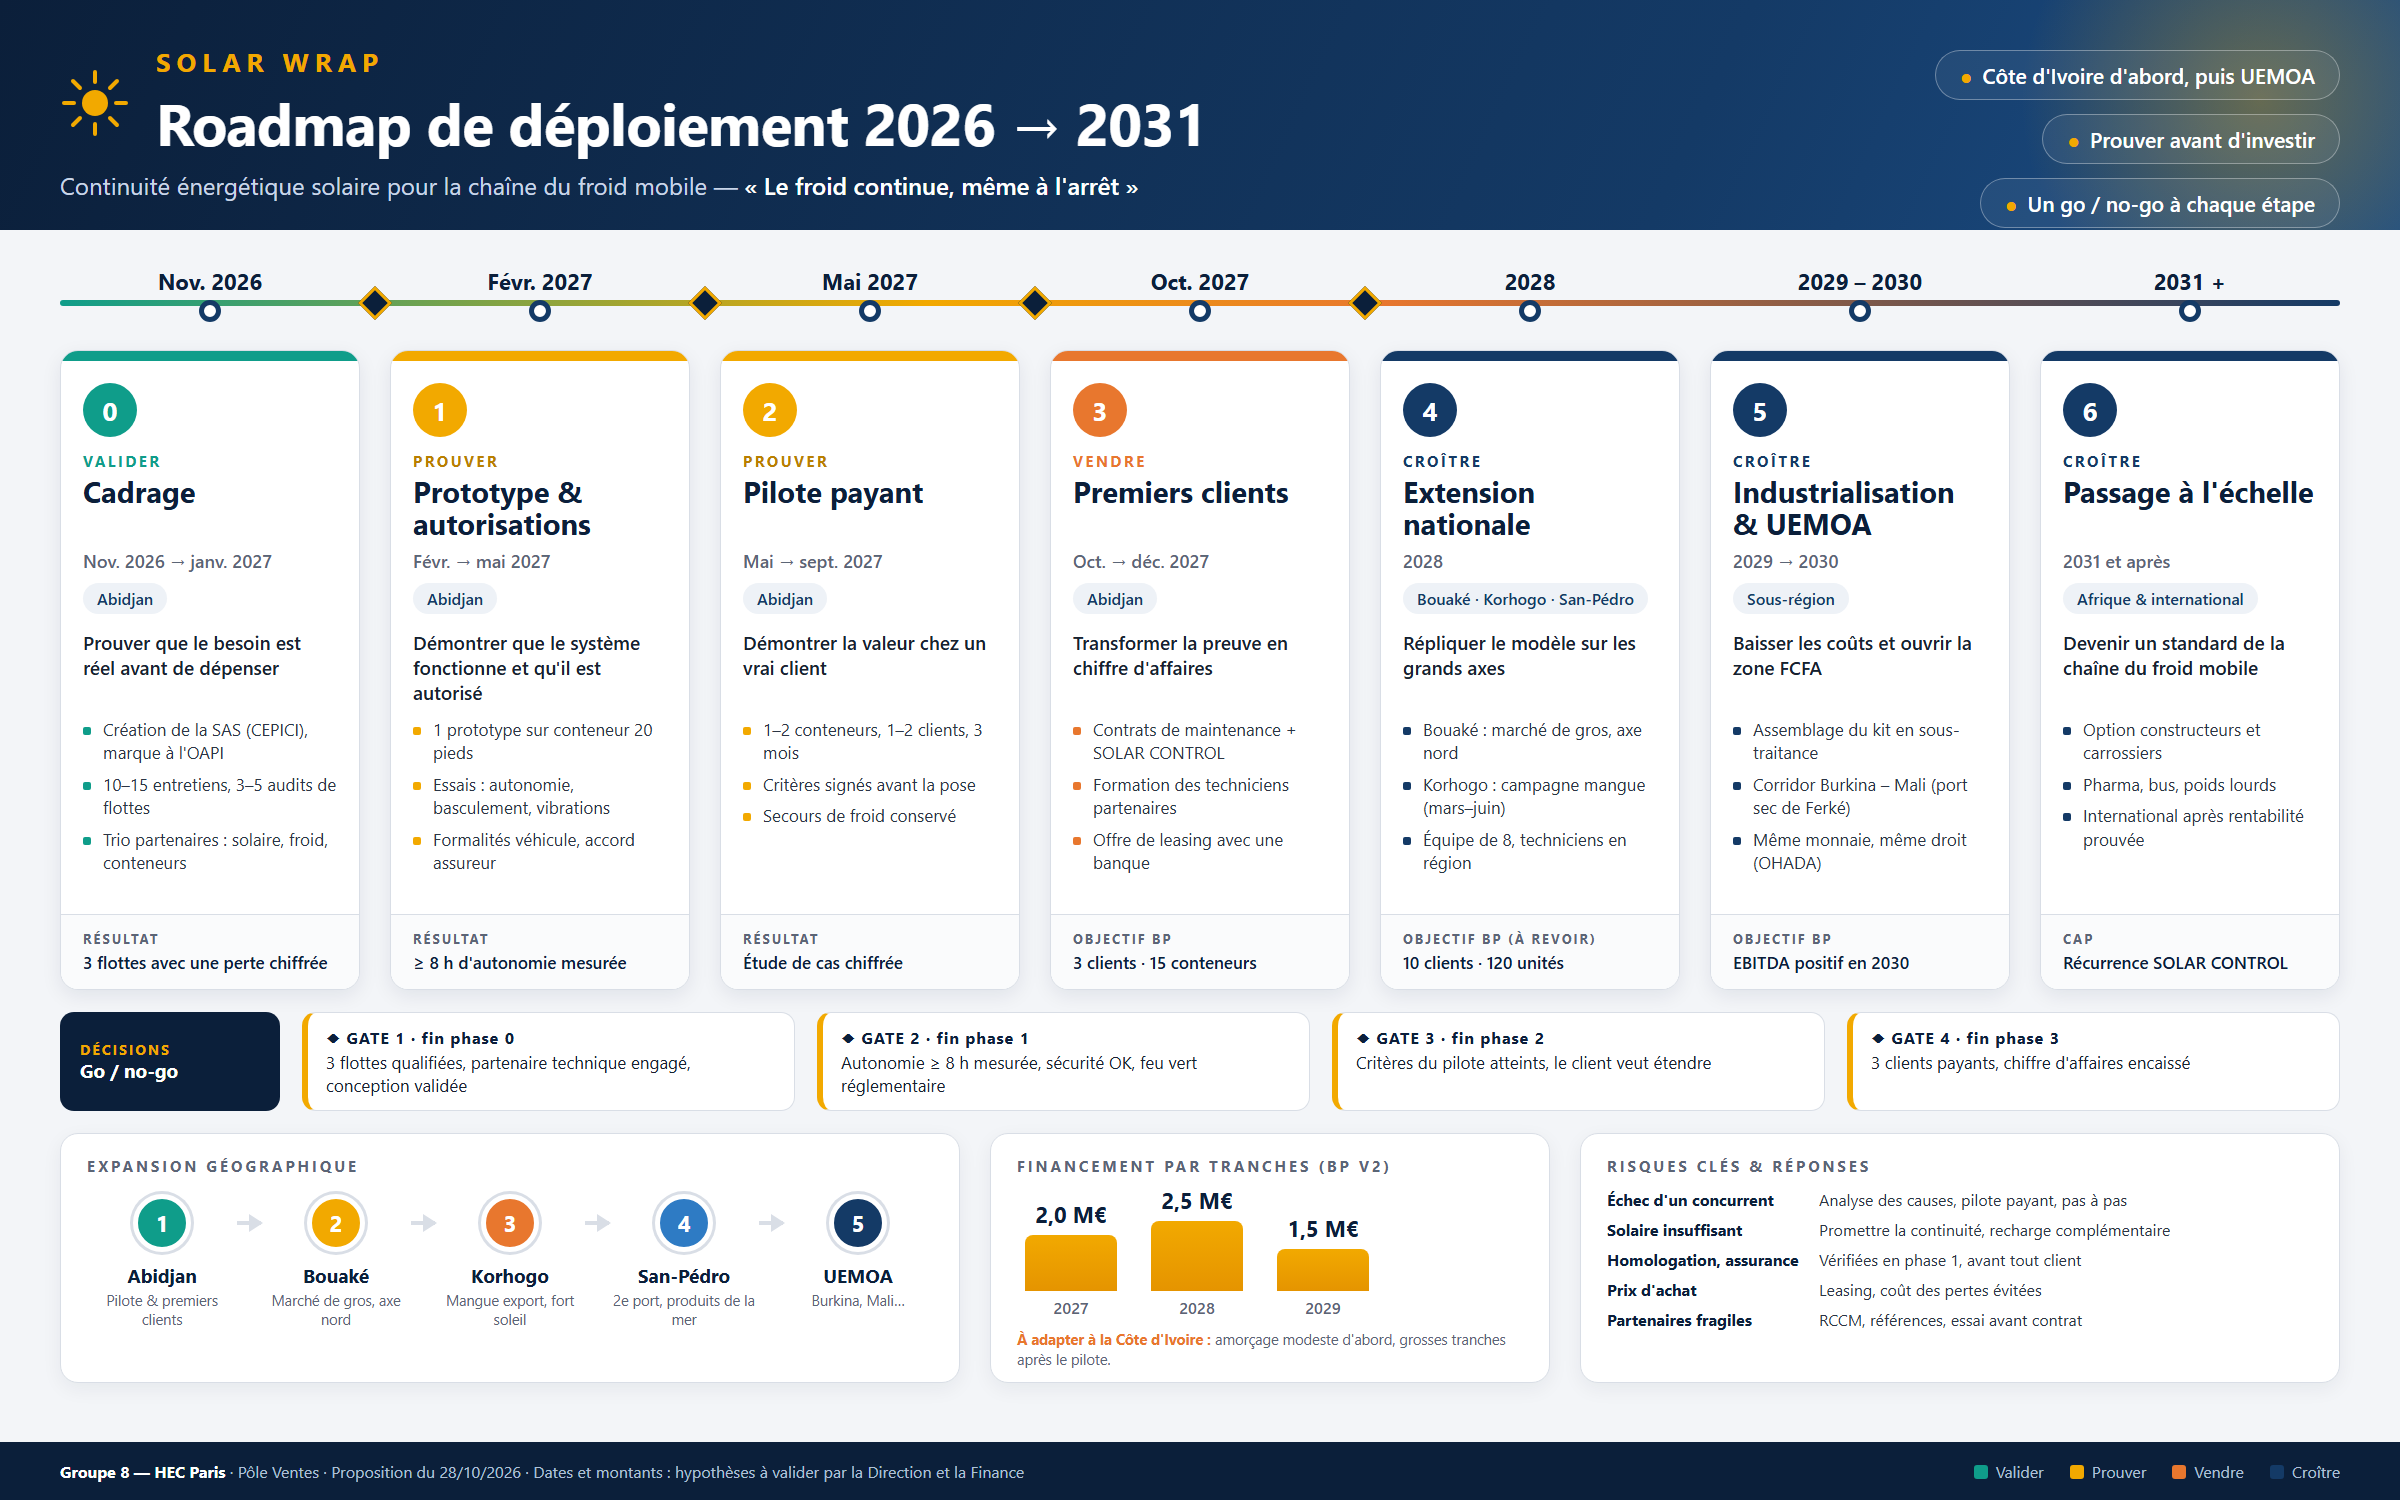
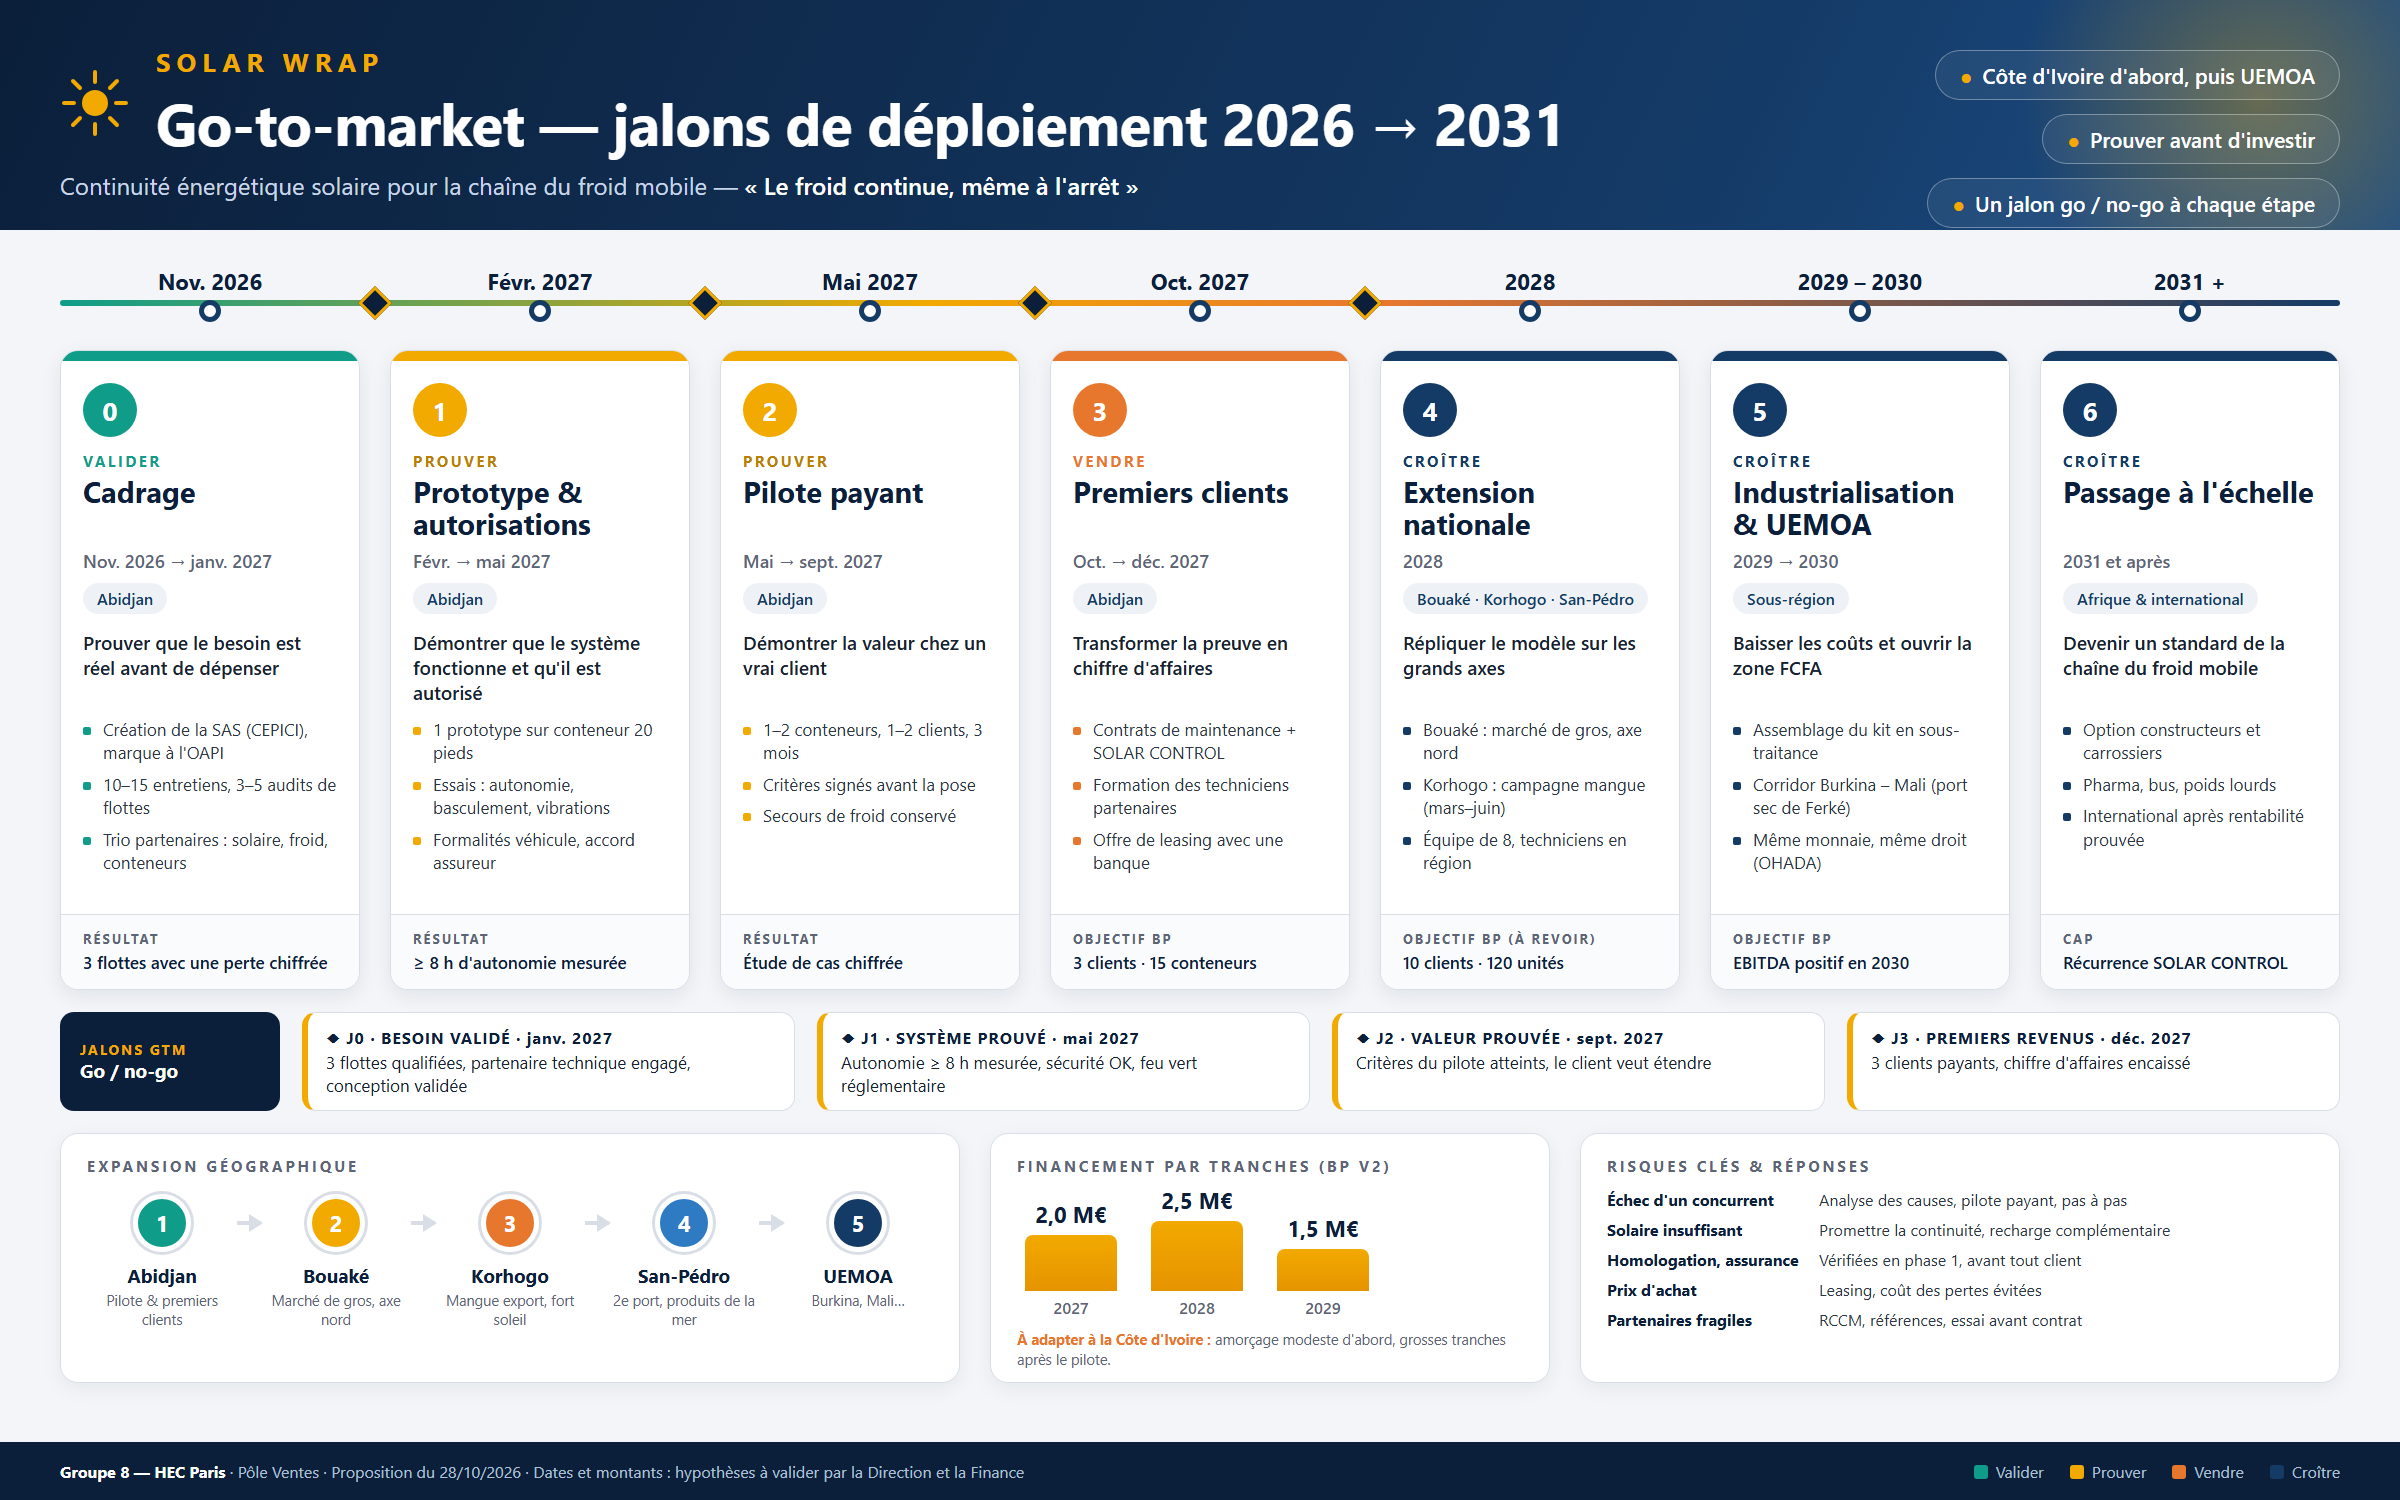
Ventes : jalons du go-to-market (plan v1.5)
- § 18 : jalons J0 à J6 du go-to-market, critères go / no-go,
  responsables et indicateurs, la roadmap servant de référence
- Infographie retitrée « Go-to-market — jalons de déploiement »
  et décisions renommées J0 à J3
- README de 4 VENTES mis à jour

diff --git a/4 VENTES/PLAN-COMMERCIAL.md b/4 VENTES/PLAN-COMMERCIAL.md
@@ -1,6 +1,6 @@
 # 📈 Plan commercial SOLAR WRAP — Pôle Ventes
 
-**Responsable : NAB** · **Version :** v1.4 — 28/10/2026 (v1.3 + cohérence avec le [Business Model Canvas](../08-livrables/BUSINESS-MODEL-CANVAS/README.md) : alerte prix, points 5 à 7 de la section 1, canaux) · **Statut :** proposition, à valider par FAOUZI (Direction)
+**Responsable : NAB** · **Version :** v1.5 — 28/10/2026 (v1.4 + jalons du go-to-market, section 18) · **Statut :** proposition, à valider par FAOUZI (Direction)
 
 > Livrable attendu (cf. [tache et livrable de chacun](../tache%20et%20livrable%20de%20chacun.md)) : **plan commercial et premiers prospects**.
 > Sources internes : [LA VISION DU CEO](../04-strategie/LA%20VISION%20DU%20CEO.MD), [étude de marché Marketing](../3%20MARKETING/SOLAR_WRAP_Etude_de_marche_synthetique_et_positionnement.md), [fiche Produit](../5%20PRODUIT/INSTALLATION%20PHOTOVOLTA%C3%8FQUE%20SUR%20CONTENEUR%20LOGISTIQUE%20FRIGORIFIQUE.md), [note Juridique / RH](../7%20JURIDIQUE%20RH/README.md), [business plan V2](../2%20FINANCE/SOLAR_WRAP_BP_V2.md), `02-banque-idees/CONTRADICTIONS ET INCOHERENCES.docx`.
@@ -235,3 +235,24 @@ Visite du conteneur et du groupe frigorifique, relevé de la consommation, du co
 **Conditions pour passer à la ville suivante :** au moins un pilote réussi et documenté à Abidjan ; un installateur partenaire capable d'intervenir dans la ville visée (ou formé sur place) ; pour Korhogo, une visite calée sur la campagne mangue.
 
 **Sources :** [Ecofin — trois marchés de gros (mai 2026)](https://www.agenceecofin.com/actualites/0605-138182-cote-d-ivoire-trois-marches-de-gros-annonces-pour-moderniser-la-filiere-vivriere) · [Marché de gros de Bouaké](https://www.pppossible.com/projet-marchedugros.php) · [PND 2026-2030 et le Nord](https://www.afrik.com/pnd-2026-2030-la-cote-d-ivoire-veut-faire-du-nord-un-corridor-agro-industriel-et-logistique) · [Filières fruitières en Côte d'Ivoire (2022)](https://www.hortifresh.org/wp-content/uploads/AnalyseFruitSectors_2022_online.pdf) · [La mangue en Côte d'Ivoire (Fruitrop)](https://www.fruitrop.com/content/download/42193/685289/version/6/file/F255+fiche+mangue+cote+ivoire+FRA.pdf) · [Catalogue de projets du CEPICI](https://cepici.ci/forum/public/backend/assets/upload/documents/1732611402_ee63aa13c1d73bc83f6a.pdf) · [Ensoleillement — Scientific African (2026)](https://doaj.org/article/12a8ff372dc7406d90b8bba12148ee5a)
+
+## 18. Jalons du go-to-market (référence : roadmap de déploiement)
+
+La [roadmap de déploiement](ROADMAP-SOLAR-WRAP.png) est la **référence des jalons du go-to-market**. Chaque phase se termine par une décision **go / no-go** : on ne passe à la phase suivante que si le critère est atteint.
+
+![Go-to-market SOLAR WRAP — jalons 2026-2031](ROADMAP-SOLAR-WRAP.png)
+
+| Jalon | Échéance cible | Critère de réussite (go / no-go) | Responsable principal | Indicateurs Ventes |
+|---|---|---|---|---|
+| **J0 — Besoin validé** | Fin janv. 2027 | 3 flottes qualifiées (§ 4) avec une perte chiffrée ; partenaire technique engagé ; conception validée | NAB · ILYES | Entretiens réalisés (10-15), audits (3-5) |
+| **J1 — Système prouvé** | Fin mai 2027 | Autonomie ≥ 8 h mesurée ; sécurité OK ; feu vert réglementaire et assureur | ILYES · MAXIME | Clients prêts à piloter |
+| **J2 — Valeur prouvée** | Fin sept. 2027 | Critères du pilote atteints ; le client veut étendre ; étude de cas chiffrée | NAB | Conventions de pilote signées (1-2) |
+| **J3 — Premiers revenus** | Fin déc. 2027 | 3 clients payants · 15 conteneurs · CA **encaissé** | NAB · LEVON | CA facturé / encaissé, taux d'abonnement |
+| **J4 — Couverture nationale** | 2028 | Clients actifs à Bouaké et Korhogo ; objectif BP 10 clients · 120 unités (à revoir) | NAB | Clients par ville, délai de signature |
+| **J5 — Rentabilité et UEMOA** | 2029-2030 | Coût unitaire en baisse ; premier client hors Côte d'Ivoire ; EBITDA positif visé en 2030 | FAOUZI · LEVON | Marge par conteneur, clients UEMOA |
+| **J6 — Passage à l'échelle** | 2031 + | Accord avec un constructeur ou carrossier ; revenus récurrents SOLAR CONTROL | FAOUZI | Part du CA récurrent |
+
+**Règles :**
+- Un jalon manqué déclenche une revue avec la Direction et la Finance : **corriger, décaler ou arrêter** — jamais passer outre.
+- Les échéances sont des **cibles** ; elles sont revues à chaque jalon et les versions précédentes sont conservées (§ 14, règle 8).
+- Les prix et volumes restent soumis aux arbitrages de la section 1 (notamment le prix du kit).

diff --git a/4 VENTES/README.md b/4 VENTES/README.md
@@ -4,11 +4,11 @@
 
 **Périmètre :** Clients, prospects, pipeline, partenaires.
 
-📄 Document principal : [PLAN-COMMERCIAL](PLAN-COMMERCIAL.md) (v1.3 — 28/10/2026)
+📄 Document principal : [PLAN-COMMERCIAL](PLAN-COMMERCIAL.md) (v1.5 — 28/10/2026)
 
-🗺 Proposition de roadmap de déploiement 2026 → 2031 (dates et montants à valider par la Direction et la Finance) :
+🗺 **Jalons du go-to-market 2026 → 2031** — la roadmap de déploiement sert de référence aux jalons go / no-go (détail : section 18 du plan ; dates et montants à valider par la Direction et la Finance) :
 
-![Roadmap de déploiement SOLAR WRAP 2026-2031](ROADMAP-SOLAR-WRAP.png)
+![Go-to-market SOLAR WRAP — jalons 2026-2031](ROADMAP-SOLAR-WRAP.png)
 
 ## À renseigner
 - Objectif prioritaire : lancer 1 à 2 pilotes payants sur conteneurs frigorifiques en Côte d'Ivoire, puis signer 3 comptes (15 conteneurs équipés) en 2027.
